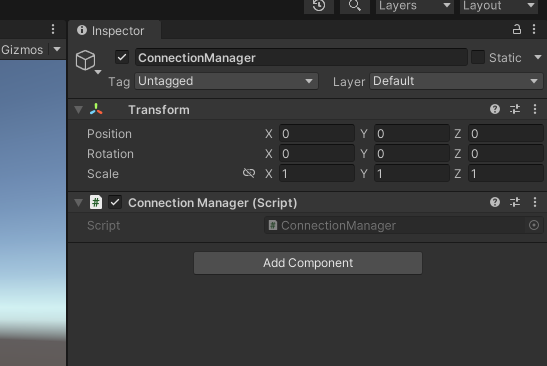
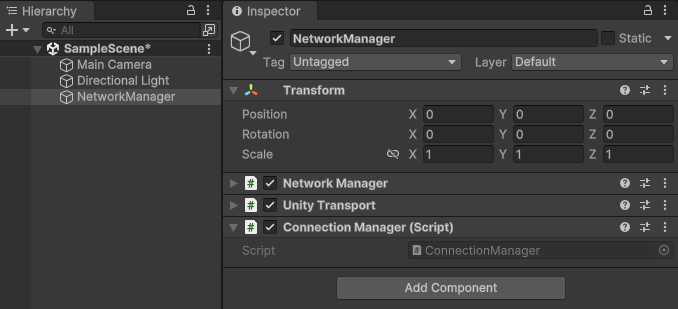
update: distributed authority quick start pre release update (#1285)

diff --git a/docs/learn/distributed-authority-quick-start.md b/docs/learn/distributed-authority-quick-start.md
@@ -11,12 +11,8 @@ Before you begin, you need the following:
 
 - An active Unity account with a valid license.
 - The [Unity Hub](https://unity.com/download).
-- A supported version of the Unity Editor. Refer to the [Netcode for GameObjects requirements](https://docs-multiplayer.unity3d.com/netcode/current/installation).
-
-## Install packages
-
-- Install the latest `com.unity.services.multiplayer` Multiplayer Services package.
-- Install the latest `com.unity.netcode.gameobjects` Netcode for GameObjects package.
+- A supported version of the Unity 6 Editor.
+  - Additional requirements information can be found here: [Netcode for GameObjects requirements](https://docs-multiplayer.unity3d.com/netcode/current/installation).
 
 ## Project setup
 
@@ -28,14 +24,29 @@ Before you begin, you need the following:
 
 ![connect unity cloud](/img/learn/distributed-authority-quick-start/connect-unity-cloud.png)
 
-:::note Access during alpha and beta
-During alpha and beta, you need to request access to the distributed authority service. To do so, provide your Unity contact with the ID of the Unity Cloud project you created.
-:::
+## Install packages
+
+- Install the latest `com.unity.netcode.gameobjects` Netcode for GameObjects **v2.0.0** package.
+- Install the latest `com.unity.services.multiplayer` Multiplayer Services package.
+
+## Netcode for GameObjects setup
+
+1.  Using the SampleScene, add a new *Empty* object and name it *NetworkManager*.
+
+2. Attach a Network Manager component to it.
+![add network manager](/img/learn/distributed-authority-quick-start/network-manager.png)
+
+3. Under the Network Settings, set the **Network Topology** property to **Distributed Authority**.
+![set network topology](/img/learn/distributed-authority-quick-start/network-topology.png)
+
+4. Under **Network Transport**, select **UnityTransport** from the list of options to add.
+![use unity transport](/img/learn/distributed-authority-quick-start/unity-transport.png)
+
+5. Save any changes to your objects and scene.
 
 ## Connection setup
 
-1. Create a new script called *ConnectionManager.cs*. This script provides a user interface and connects to a distributed authority service session:
-
+1. Create a new script called *ConnectionManager.cs*. This script provides a user interface and the script logic required to connect to a distributed authority service session:
 ```cs
 using System;
 using System.Threading.Tasks;
@@ -51,6 +62,7 @@ public class ConnectionManager : MonoBehaviour
    private int _maxPlayers = 10;
    private ConnectionState _state = ConnectionState.Disconnected;
    private ISession _session;
+   private NetworkManager m_NetworkManager;
 
    private enum ConnectionState
    {
@@ -59,10 +71,29 @@ public class ConnectionManager : MonoBehaviour
        Connected,
    }
 
-   private async void Awake()
-   {
-       await UnityServices.InitializeAsync();
-   }
+    private async void Awake()
+    {
+        m_NetworkManager = GetComponent<NetworkManager>();
+        m_NetworkManager.OnClientConnectedCallback += OnClientConnectedCallback;
+        m_NetworkManager.OnSessionOwnerPromoted += OnSessionOwnerPromoted;
+        await UnityServices.InitializeAsync();
+    }
+
+    private void OnSessionOwnerPromoted(ulong sessionOwnerPromoted)
+    {
+        if (m_NetworkManager.LocalClient.IsSessionOwner)
+        {
+            Debug.Log($"Client-{m_NetworkManager.LocalClientId} is the session owner!");
+        }
+    }
+
+    private void OnClientConnectedCallback(ulong clientId)
+    {
+        if (m_NetworkManager.LocalClientId == clientId)
+        {
+            Debug.Log($"Client-{clientId} is connected and can spawn {nameof(NetworkObject)}s.");
+        }
+    }
 
    private void OnGUI()
    {
@@ -122,70 +153,139 @@ public class ConnectionManager : MonoBehaviour
 }
 ```
 
-2. Attach this script to a new object in your scene.
-
+2. Add the `ConnectionManager` component script you created to the  *NetworkManager* object.
 ![add connection manager](/img/learn/distributed-authority-quick-start/create-connection-manager.png)
-
-## Netcode for GameObjects setup
-
-1. Create a new object in your scene called *NetworkManager*. Attach a Network Manager component to it.
-
-![add network manager](/img/learn/distributed-authority-quick-start/network-manager.png)
-
-2. Set **Session Mode** to **Distributed Authority**.
-
-![set session mode](/img/learn/distributed-authority-quick-start/session-mode.png)
-
-3. Under **Network Transport**, select **UnityTransport** from the list of options to add.
-
-![use unity transport](/img/learn/distributed-authority-quick-start/unity-transport.png)
-
-4. Save any changes to your objects and scene.
 
 ## Adding gameplay
 
 1. Create a new Script called *PlayerCubeController.cs*:
-
 ```cs
-using Unity.Netcode;
 using Unity.Netcode.Components;
 using UnityEngine;
-
-public class PlayerCubeController : NetworkBehaviour
+#if UNITY_EDITOR
+using Unity.Netcode.Editor;
+using UnityEditor;
+/// <summary>
+/// The custom editor for the <see cref="PlayerCubeController"/> component.
+/// </summary>
+[CustomEditor(typeof(PlayerCubeController), true)]
+public class PlayerCubeControllerEditor : NetworkTransformEditor
 {
-   public float speed = 20;
+    private SerializedProperty m_Speed;
+    private SerializedProperty m_ApplyVerticalInputToZAxis;
 
-   private NetworkTransform _transform;
 
-   private void Start()
-   {
-       _transform = GetComponent<NetworkTransform>();
-   }
+    public override void OnEnable()
+    {
+        m_Speed = serializedObject.FindProperty(nameof(PlayerCubeController.Speed));
+        m_ApplyVerticalInputToZAxis = serializedObject.FindProperty(nameof(PlayerCubeController.ApplyVerticalInputToZAxis));
+        base.OnEnable();
+    }
 
-   private void Update()
-   {
-       var movement = new Vector3(Input.GetAxis("Horizontal"), Input.GetAxis("Vertical"));
-       _transform.transform.position += movement * speed * Time.deltaTime;
-   }
+
+    public override void OnInspectorGUI()
+    {
+        var playerCubeController = target as PlayerCubeController;
+
+
+        playerCubeController.PlayerCubeControllerPropertiesVisible = EditorGUILayout.BeginFoldoutHeaderGroup(playerCubeController.PlayerCubeControllerPropertiesVisible, $"{nameof(PlayerCubeController)} Properties");
+        if (playerCubeController.PlayerCubeControllerPropertiesVisible)
+        {
+            EditorGUILayout.PropertyField(m_Speed);
+            EditorGUILayout.PropertyField(m_ApplyVerticalInputToZAxis);
+        }
+        EditorGUILayout.EndFoldoutHeaderGroup();
+
+
+        EditorGUILayout.Space();
+
+
+        playerCubeController.NetworkTransformPropertiesVisible = EditorGUILayout.BeginFoldoutHeaderGroup(playerCubeController.NetworkTransformPropertiesVisible, $"{nameof(NetworkTransform)} Properties");
+        if (playerCubeController.NetworkTransformPropertiesVisible)
+        {
+            // End the header group prior to invoking the base OnInspectorGUID in order to avoid nested
+            // foldout groups.
+            EditorGUILayout.EndFoldoutHeaderGroup();
+            // If NetworkTransform properties are visible, then both the properties any modified properties
+            // will be applied.
+            base.OnInspectorGUI();
+        }
+        else
+        {
+            // End the header group
+            EditorGUILayout.EndFoldoutHeaderGroup();
+            // If NetworkTransform properties are not visible, then make sure we apply any modified properties.
+            serializedObject.ApplyModifiedProperties();
+        }
+    }
+}
+#endif
+
+
+public class PlayerCubeController : NetworkTransform
+{
+#if UNITY_EDITOR
+    // These bool properties ensure that any expanded or collapsed property views
+    // within the inspector view will be saved and restored the next time the
+    // asset/prefab is viewed.
+    public bool PlayerCubeControllerPropertiesVisible;
+    public bool NetworkTransformPropertiesVisible;
+#endif
+
+
+    public float Speed = 10;
+    public bool ApplyVerticalInputToZAxis;
+
+
+    private Vector3 m_Motion;
+
+
+    private void Update()
+    {
+        // If not spawned or we don't have authority, then don't update
+        if (!IsSpawned || !HasAuthority)
+        {
+            return;
+        }
+
+
+        // Handle acquiring and applying player input
+        m_Motion = Vector3.zero;
+        m_Motion.x = Input.GetAxis("Horizontal");
+
+
+        // Determine whether the vertical input is applied to the Y or Z axis
+        if (!ApplyVerticalInputToZAxis)
+        {
+            m_Motion.y = Input.GetAxis("Vertical");
+        }
+        else
+        {
+            m_Motion.z = Input.GetAxis("Vertical");
+        }
+
+
+        // If there is any player input magnitude, then apply that amount of
+        // motion to the transform
+        if (m_Motion.magnitude > 0)
+        {
+            transform.position += m_Motion * Speed * Time.deltaTime;
+        }
+    }
 }
 ```
-
-2. Create a new prefab called *PlayerCube* and open it for editing.
-    - Attach the *PlayerCubeController* to the prefab. When prompted to add a NetworkObject, select **Yes**.
-    - Attach a Network Transform component as well. Make sure all the **Ownership** flags are unchecked.
-
-![setup network transform](/img/learn/distributed-authority-quick-start/network-transform.png)
-
-3. Attach a child object in the prefab. Select the root of the prefab, right-click, and select **3D Object > Cube**.
-
-![add the cube](/img/learn/distributed-authority-quick-start/create-cube.png)
-
-4. Save all changes to the prefab.
-
-5. Open the Network Manager, navigate to **Prefab Settings**, and set the **Default Player Prefab** to be **PlayerCube**.
-
-![set the prefab](/img/learn/distributed-authority-quick-start/player-cube.png)
-
+2. In the open *SampleScene*, create a 3D cube and name it *PlayerCube*.
+![create PlayerCube object](/img/learn/distributed-authority-quick-start/player-cube.png)
+3. Add a `NetworkObject` component to the *PlayerCube*.
+![add a NetworkObject component](/img/learn/distributed-authority-quick-start/add-networkobject.png)
+4. Add the *PlayerCubeController* to the *PlayerCube*.
+![add the PlayerCubeController component](/img/learn/distributed-authority-quick-start/add-playercubecontroller.png)
+5. Create a Prefabs folder in the root Assets folder.
+6. Drag and drop the *PlayerCube* object into the newly created Prefabs folder.
+![create the player cube prefab](/img/learn/distributed-authority-quick-start/create-playercube-prefab.png)
+6. Delete the *PlayerCube* object from your scene.
+5. Open the Network Manager, navigate to **Prefab Settings**, and set the **Default Player Prefab** to be the newly created *PlayerCube*.
+![set the default player prefab](/img/learn/distributed-authority-quick-start/assign-default-player-prefab.png)
 6. Save all changes to the scene.
 
 ## Next steps
